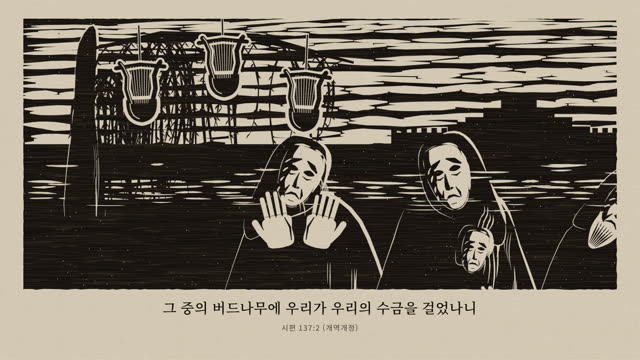
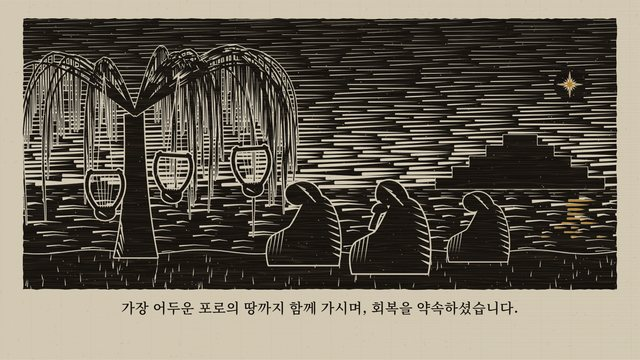
canvas-film: 되돌린 두 장면(분열·포로 목판화, 400년 침묵 종이 오림)의 화풍·썸네일·길이 반영, 전체 점검에서 얻은 교훈 추가
Claude-Session: https://claude.ai/code/session_013DBWECfFXGXN33id9997uj

diff --git a/docs/canvas-film/index.html b/docs/canvas-film/index.html
@@ -91,17 +91,17 @@ python3 ../../scripts/publish.py   # → site/ (라이브 플레이어)</code></
         <div class="cap"><span class="no">장면 08 · 통일 왕국 · 39초</span><b>채색 필사본</b><span class="en">illuminated manuscript</span>
         <span class="how">vellum, lapis/vermilion border, burnished gold leaf with a moving candle glint, a gilded initial, text written in letter by letter</span></div></a>
       <a class="tile" data-tags="craft" href="https://one-scroll-bible.com/film/#exile" target="_blank" rel="noopener">
-        <img src="styles/exile.jpg" alt="분열 · 포로 — 콜비츠 목판화" loading="lazy" width="640" height="360">
-        <div class="cap"><span class="no">장면 09 · 분열 · 포로 · 42초</span><b>콜비츠 목판화</b><span class="en">Kollwitz expressionist woodcut</span>
-        <span class="how">60–70% black, white gouge contours wider on the lit side, grief-stricken faces and big hands carved in as you watch; the block cracks in two; lyres hung on willows; one thin gold ray for the promise</span></div></a>
+        <img src="styles/exile.jpg" alt="분열 · 포로 — 목판화" loading="lazy" width="640" height="360">
+        <div class="cap"><span class="no">장면 09 · 분열 · 포로 · 36초</span><b>목판화</b><span class="en">woodcut</span>
+        <span class="how">black ink planes cut into by white gouge strokes (pictures "carved" in), a crown cracking, captives on a white road, harps on willows, one gold star on the river for the promise</span></div></a>
       <a class="tile" data-tags="line" href="https://one-scroll-bible.com/film/#return" target="_blank" rel="noopener">
         <img src="styles/return.jpg" alt="포로 귀환 — 청사진이 노을 속 3D로" loading="lazy" width="640" height="360">
         <div class="cap"><span class="no">장면 10 · 포로 귀환 · 38초</span><b>청사진이 노을 속 3D로</b><span class="en">blueprint developing into a lit 3D dusk (after *Titanic*)</span>
         <span class="how">white lines on Prussian-blue paper draw the city plan, stand up into wireframe, and colour develops outward into a golden-hour 3D world — scaffolds, builders with spears, the wall rising course by course, a ring of lamps at night, sunrise at the Water Gate</span></div></a>
-      <a class="tile" data-tags="paint" href="https://one-scroll-bible.com/film/#silence" target="_blank" rel="noopener">
-        <img src="styles/silence.jpg" alt="400년 침묵 — 호퍼풍 고요한 사실화" loading="lazy" width="640" height="360">
-        <div class="cap"><span class="no">장면 11 · 400년 침묵 · 38초</span><b>호퍼풍 고요한 사실화</b><span class="en">Hopper-style quiet realism</span>
-        <span class="how">one still room with hard window-light parallelograms; days, seasons and generations pass (a year counter, the light swinging, the room ageing, the waiting man changing); a star breaks into the window and the old man rises</span></div></a>
+      <a class="tile" data-tags="craft" href="https://one-scroll-bible.com/film/#silence" target="_blank" rel="noopener">
+        <img src="styles/silence.jpg" alt="400년 침묵 — 종이 오림 라이트박스" loading="lazy" width="640" height="360">
+        <div class="cap"><span class="no">장면 11 · 400년 침묵 · 34초</span><b>종이 오림 라이트박스</b><span class="en">paper-cut lightbox</span>
+        <span class="how">layered paper cut-outs with soft shadows lit from behind, a year counter, seasons turning on one tree, a new star burning through</span></div></a>
       <a class="tile" data-tags="craft" href="https://one-scroll-bible.com/film/#advent" target="_blank" rel="noopener">
         <img src="styles/advent.jpg" alt="예수님의 오심 — 스테인드글라스" loading="lazy" width="640" height="360">
         <div class="cap"><span class="no">장면 12 · 예수님의 오심 · 36초</span><b>스테인드글라스</b><span class="en">stained glass</span>

diff --git a/canvas-film/references/STYLES.md b/canvas-film/references/STYLES.md
@@ -16,9 +16,9 @@ your own renderer.
 | wilderness | **watercolour + parchment map** | the journey | a big map canvas with a red dashed route drawing itself, dives into watercolour vignettes (Sinai, camp, Jordan) |
 | judges | **1920s silent film** | the repeating cycle | 4:3 scratched print between curtains, intertitle cards, the same shot repeated faster and more damaged each cycle, the film burning through |
 | kingdom | **illuminated manuscript** | shepherd → king, an everlasting throne | vellum, lapis/vermilion border, burnished gold leaf with a moving candle glint, a gilded initial, text written in letter by letter |
-| exile | **Kollwitz expressionist woodcut** | a kingdom split, a city falls, weeping by the rivers | 60–70% black, white gouge contours wider on the lit side, grief-stricken faces and big hands carved in as you watch; the block cracks in two; lyres hung on willows; one thin gold ray for the promise |
+| exile | **woodcut** | a kingdom split, a city falls | black ink planes cut into by white gouge strokes (pictures "carved" in), a crown cracking, captives on a white road, harps on willows, one gold star on the river |
 | return | **blueprint developing into a lit 3D dusk (after *Titanic*)** | rebuilding the walls | white lines on Prussian-blue paper draw the city plan, stand up into wireframe, and colour develops outward into a golden-hour 3D world — scaffolds, builders with spears, the wall rising course by course, a ring of lamps at night, sunrise at the Water Gate |
-| silence | **Hopper-style quiet realism** | 400 years of waiting | one still room with hard window-light parallelograms; days, seasons and generations pass (a year counter, the light swinging, the room ageing, the waiting man changing); a star breaks into the window and the old man rises |
+| silence | **paper-cut lightbox** | 400 years of waiting | layered paper cut-outs with soft shadows lit from behind, a year counter, seasons turning on one tree, a new star burning through |
 | advent | **stained glass** | promises lit one by one, then the nativity | lead lines + coloured panes that "wake" with a light band; coloured light on the floor |
 | cross | **black-and-white film + one red → Rembrandt oil** | darkness, the cost, "it is finished" | grain, high contrast, one red drop; then a top-lit oil painting of a kneeling figure under the cross's shadow |
 | rise | **impasto (palette knife)** | grey world repainted in colour | thousands of knife strokes laid in grey, the stone rolls, a light burst, then every stroke re-laid in colour in a wave from the empty tomb (an accumulating mask rebuilt for any seek) |

diff --git a/canvas-film/references/LESSONS.md b/canvas-film/references/LESSONS.md
@@ -22,6 +22,20 @@
   when restyling a scene, re-time it — don't inherit a grid designed for a different style.
 - When restyling, keep every on-screen source string (they are the translation keys): change the look and timing freely
   and every language keeps working.
+- A restyle is not automatically better: after viewers compared, two of seven restyled scenes went back to the originals
+  (a woodcut with buildings beat one with faces; a paper-cut lightbox beat a Hopper room). Keep the old scene file and its
+  sound so a scene can be restored in minutes, and show the maintainer both before replacing a scene people liked.
+
+**Pre-release review** (a full review found ~30 issues no single-scene check had caught)
+- Before a release, render contact sheets of every scene × both orientations × three languages (the source, a long
+  Latin one, and an RTL one) and have reviewers look at all of them, then render each suspect moment at full size.
+- Recurring bugs it found: two lines cross-fading in the same spot (one fades in before the other is gone — offset the
+  windows); a label still on screen while the camera zooms it off the frame (fade it first); a translation that wraps to
+  two lines pushing into the window/banner/citation below (lay out from the translated line count, not the source's);
+  subtitles over text in the picture (move them, or time them, onto calm ground); see-through figures (fill the
+  silhouette opaque before textured washes); things cut by a mask meant for something else (a room drawn with the window
+  cut out also hid the fire passing in front of it — draw foreground layers outside that clip).
+- When a subtitle must dodge the picture, move it rather than cut its time: ≥ 4 s per line, or viewers miss it.
 
 **Sound**
 - ElevenLabs queue cap ≈ 64 concurrent generations; 429 → batch smaller. Never retry a generation call.
